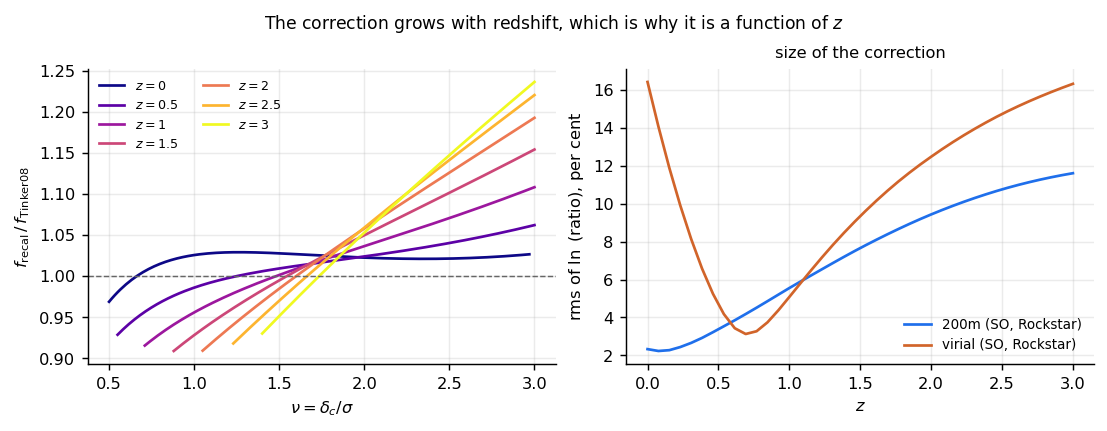
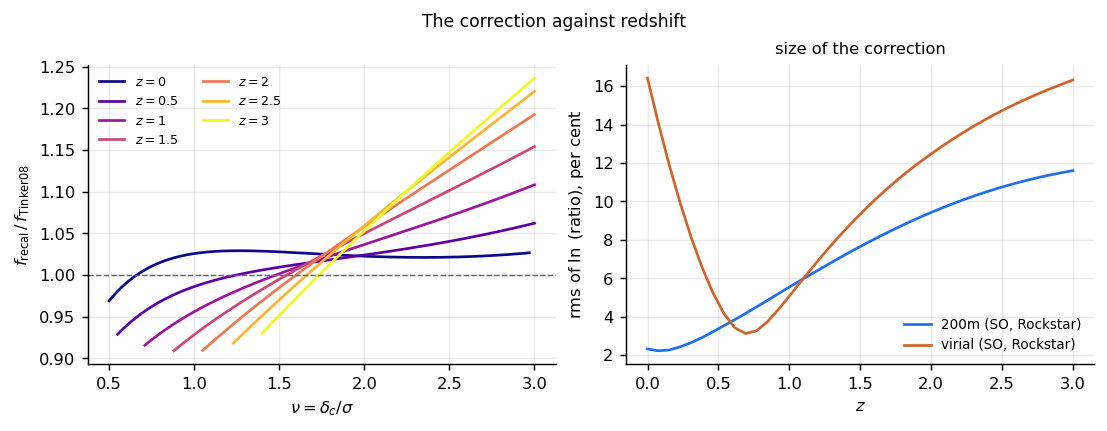
Match emu_pk's documentation layout, and make every code block runnable
**Layout and look.** The theme is now furo with `sphinx-copybutton`, the same
pair `emu_pk` uses, and the RTD-theme options it does not accept are gone. The
toctree captions match: Getting started, Tutorial, Reference. `api/index.rst`
gives the API section its own landing page, as `emu_pk/docs/api/index.md` does.
`myst_enable_extensions` and `myst_heading_anchors` are set to the same values,
so a Markdown page dropped in here behaves as it does there. The pages stay RST;
both suffixes are declared and the two render identically.

**Every code block was extracted and run.** Thirty-seven blocks across the
README, `CONTRIBUTING` and every page: nineteen Python, eighteen shell, plus the
doctests and the one output transcript.

Four Python blocks could not run as written, all in the same way -- they used
names the page never defines:

- the abundance block in `quickstart` and `tutorial` took `m`, `sigma`,
  `dlnsigma_dlnm` and `rho_cold` out of nowhere. The tutorial one now loads the
  cached table its own figure is drawn from, and runs; the quickstart one names
  the caller's function explicitly and points at `halo_model` for the
  conventions the four must satisfy.
- the `vmap` block used an undefined `chain`, which is now `box.sample(64)`,
  with the `emu_hmf.box` import the block needs.
- the `make_field` block did not say the symbol lives in `ggah_mod`, so a reader
  could not tell where to import it from.
[…]

diff --git a/docs/make_figures.py b/docs/make_figures.py
@@ -127,7 +127,7 @@ def fig_cosmology_dependence():
     ax.axhline(1.0, color="0.4", lw=0.8, ls="--")
     ax.set_xlabel(r"peak height  $\nu = \delta_c/\sigma$")
     ax.set_ylabel(r"$f_{\rm recal}\,/\,f_{\rm Tinker08}$")
-    ax.set_title("The correction moves with the cosmology ($z=0$, 200m)",
+    ax.set_title("The correction against cosmology ($z=0$, 200m)",
                  fontsize=9.5)
     ax.legend(fontsize=6.5, loc="upper left")
     _save(fig, "cosmology_dependence")
@@ -166,8 +166,7 @@ def fig_growth_with_redshift():
     axes[1].set_ylabel(r"rms of $\ln$ (ratio), per cent")
     axes[1].legend(fontsize=7.5)
     axes[1].set_title("size of the correction", fontsize=9)
-    fig.suptitle("The correction grows with redshift, which is why it is a "
-                 "function of $z$", fontsize=9.5)
+    fig.suptitle("The correction against redshift", fontsize=9.5)
     _save(fig, "growth_with_redshift")
 
 
@@ -188,7 +187,7 @@ def fig_covered_domain():
     ax.set_xlabel("$z$")
     ax.set_ylabel(r"peak height  $\nu = \delta_c/\sigma$")
     ax.set_ylim(0.3, 3.3)
-    ax.set_title(r"The nominal $\nu$ range is necessary, not sufficient",
+    ax.set_title(r"Peak heights the training set reaches, against $z$",
                  fontsize=9.5)
     ax.legend(fontsize=7.5, loc="lower right")
     _save(fig, "covered_domain")

diff --git a/docs/conf.py b/docs/conf.py
@@ -16,6 +16,7 @@ extensions = [
     "sphinx.ext.napoleon",
     "sphinx.ext.viewcode",
     "sphinx.ext.mathjax",
+    "sphinx_copybutton",
     "sphinx.ext.intersphinx",
     "myst_parser",
 ]
@@ -42,16 +43,13 @@ autodoc_mock_imports = []
 napoleon_google_docstring = False
 napoleon_numpy_docstring = True
 
-html_theme = "sphinx_rtd_theme"
-html_theme_options = {
-    "collapse_navigation": False,
-    "navigation_depth": 3,
-    "titles_only": False,
-}
+html_theme = "furo"
 html_static_path = ["_static"]
 html_title = f"emu_hmf {release}"
 
 source_suffix = {".rst": "restructuredtext", ".md": "markdown"}
+myst_enable_extensions = ["dollarmath", "amsmath", "colon_fence", "deflist"]
+myst_heading_anchors = 3
 master_doc = "index"
 
 # ``\dd`` is not a MathJax primitive -- it comes from LaTeX's `physics` package,

diff --git a/docs/quickstart.rst b/docs/quickstart.rst
@@ -34,9 +34,12 @@ The abundance
 
 .. code-block:: python
 
+   m = np.logspace(12.0, 14.0, 24)                  # M_sun/h
+   sigma, dlnsigma_dlnm, rho_cold = my_variance(m, theta, z=0.5)
    n = corr.dndlnM(m, sigma, dlnsigma_dlnm, rho_cold, theta, z=0.5)
 
-which is
+``my_variance`` is the caller's; :doc:`halo_model` says what the three
+quantities must be.  The result is
 
 .. math::
 
@@ -55,6 +58,7 @@ The forward pass is JAX throughout, including the cosmology:
 .. code-block:: python
 
    import jax, jax.numpy as jnp
+   from emu_hmf import box
 
    def ln_f(theta):
        return jnp.log(corr.fsigma(0.8, theta, 0.5))
@@ -66,8 +70,9 @@ cosmologies:
 
 .. code-block:: python
 
+   chain = jnp.asarray(box.sample(64))          # or any (n, 8) of cosmologies
    f = jax.jit(lambda t: corr.fsigma(0.8, t, 0.5))
-   values = jax.vmap(f)(chain)                  # chain is (n, 8)
+   values = jax.vmap(f)(chain)
 
 Inside a ``jit`` the box check is skipped: the values are not concrete under
 tracing.  A jitted forward model is checked once, when it is built.

diff --git a/docs/index.rst b/docs/index.rst
@@ -28,41 +28,27 @@ The inference path needs numpy and JAX.  ``jax.grad``, ``jax.jit`` and
 
 .. toctree::
    :maxdepth: 2
-   :caption: Using it
+   :caption: Getting started
 
    installation
    quickstart
-   tutorial
 
 .. toctree::
    :maxdepth: 2
-   :caption: What it is
+   :caption: Tutorial
 
+   tutorial
    concepts
    massdefs
    validity
 
 .. toctree::
    :maxdepth: 2
-   :caption: Beyond the package
+   :caption: Reference
 
+   api/index
    halo_model
    reproducing
    testing
    citation
-
-.. toctree::
-   :maxdepth: 2
-   :caption: API reference
-
-   api/model
-   api/box
-   api/target
-   api/generate
-   api/fit
-
-.. toctree::
-   :maxdepth: 1
-   :caption: Development
-
    changelog

diff --git a/docs/api/index.rst b/docs/api/index.rst
@@ -1,0 +1,18 @@
+API reference
+=============
+
+The supported surface is what each module's own ``__all__`` lists.  Anything
+else is private and may change without a major version.
+
+Evaluating a mass function needs :doc:`model` and :doc:`box` alone, which
+between them import nothing beyond numpy and JAX.  :doc:`target`,
+:doc:`generate` and :doc:`fit` are the offline half that built the weights.
+
+.. toctree::
+   :maxdepth: 1
+
+   model
+   box
+   target
+   generate
+   fit

diff --git a/docs/tutorial.rst b/docs/tutorial.rst
@@ -94,7 +94,11 @@ See :doc:`massdefs`.
 
 .. code-block:: python
 
-   n = corr.dndlnM(m, sigma, dlnsigma_dlnm, rho_cold, target.FIDUCIAL, z)
+   with np.load("docs/data/sigma_illustrative.npz") as d:
+       m, zs, rho_cold = d["m"], d["z"], float(d["rho_cold"])
+       sigma, dlns = d["sigma"][0], d["dlns"][0]        # the first redshift
+
+   n = corr.dndlnM(m, sigma, dlns, rho_cold, target.FIDUCIAL, zs[0])
 
 .. figure:: _static/figures/mass_function.png
    :width: 75%

diff --git a/docs/halo_model.rst b/docs/halo_model.rst
@@ -38,6 +38,8 @@ the two corrections as named multiplicity functions:
 
 .. code-block:: python
 
+   from ggah_mod.halos.field import make_field       # in ggah_mod, not here
+
    make_field(..., hmf_model="tinker08_csst")        # the 200m weights
    make_field(..., hmf_model="tinker08_csst_vir")    # the virial weights
 
